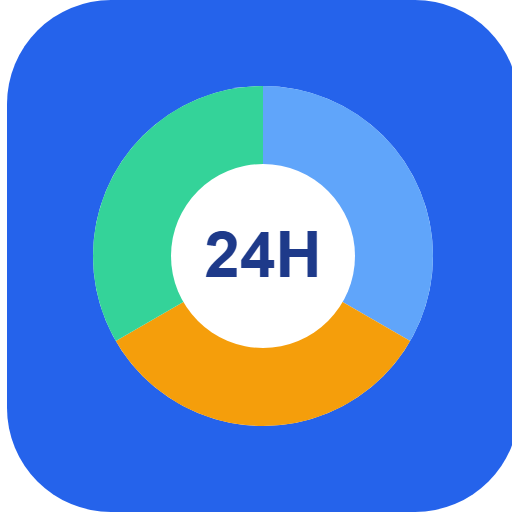
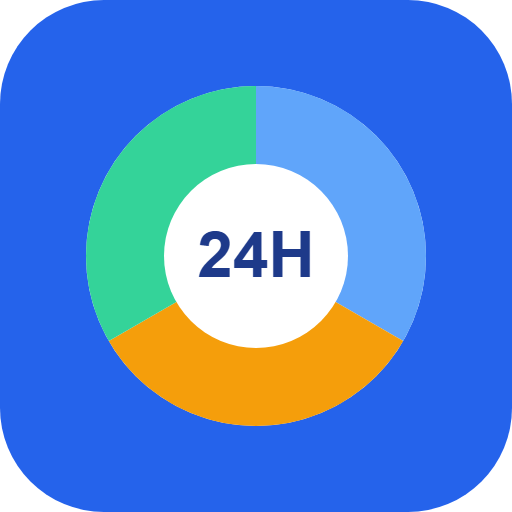
アイコン修正

diff --git a/RoundSchedule/ds-sw.js b/RoundSchedule/ds-sw.js
@@ -1,4 +1,4 @@
-const CACHE_NAME = 'daily-schedule-v3';
+const CACHE_NAME = 'daily-schedule-v4';
 const ASSETS = ['./RoundSchedule.html', './ds-manifest.json', './icon-512.png'];
 
 self.addEventListener('install', e => {